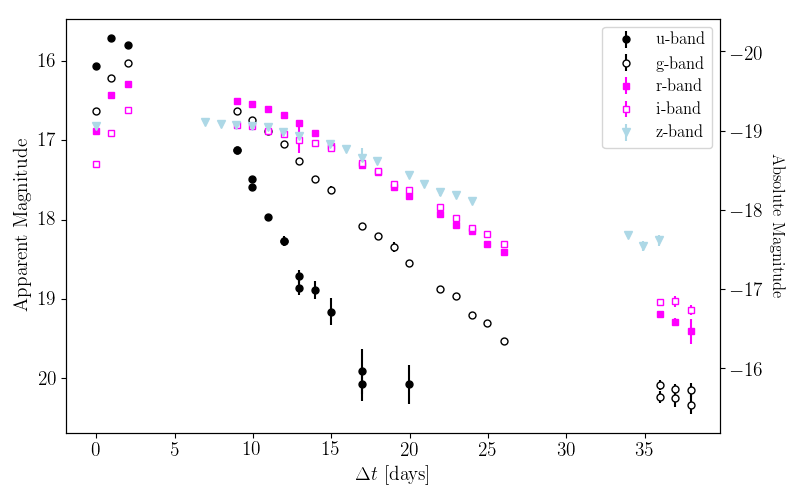
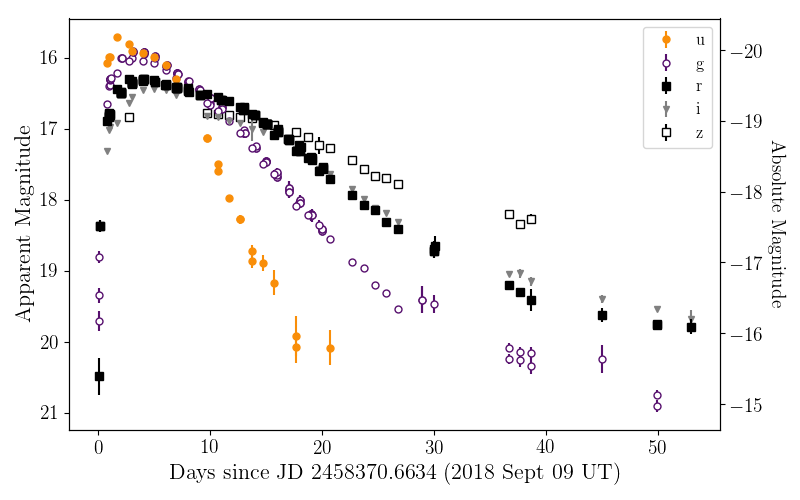
fit explosion epoch

diff --git a/paper_plots/fit_expl_epoch.py b/paper_plots/fit_expl_epoch.py
@@ -1,0 +1,67 @@
+""" 
+Fit for the explosion epoch by fitting a polynomial 
+to the g-band light curve """
+
+import numpy as np
+import matplotlib.pyplot as plt
+from matplotlib import rc
+rc("font", family="serif")
+rc("text", usetex=True)
+from astropy.cosmology import Planck15
+
+d = Planck15.luminosity_distance(z=0.033).cgs.value
+
+DATA_DIR = "/Users/annaho/Dropbox/Projects/Research/ZTF18abukavn/data/phot"
+f = DATA_DIR + "/ZTF18abukavn_opt_phot.dat"
+dat = np.loadtxt(f, dtype=str, delimiter=' ')
+instr = dat[:,0]
+mjd = dat[:,1].astype(float)
+filt = dat[:,2]
+mag = dat[:,3].astype(float)
+emag = dat[:,4].astype(float)
+
+det = np.logical_and(mag<99, ~np.isnan(mag))
+tofit = np.logical_and(instr=='P48+ZTF', filt=='g')
+choose = np.logical_and(det, tofit)
+dt = mjd[choose]-mjd[choose][0]
+
+# Initialize the figure
+fig,ax = plt.subplots(1,1,figsize=(5,3))
+
+# Convert from mag to flux
+# AB flux zero point for g-band is 3631 Jy or 1E-23 erg/cm2/s/Hz
+flux = 10**(-(mag[choose] + 48.6)/2.5)
+lum = 4 * np.pi * d**2 * flux
+# Uncertainty in magnitude is roughly the fractional uncertainty on the flux
+eflux = emag[choose]*flux
+elum = 4 * np.pi * d**2 * eflux
+
+# Plot the light curve
+ax.errorbar(dt, lum/1E28, yerr=elum/1E28, c='k', ms=5, fmt='.')
+
+# Fit a polynomial (quadratic)
+sec = dt < 3
+
+out,cov = np.polyfit(dt[sec], lum[sec], deg=2, w=1/elum[sec], cov=True)
+xlab = np.linspace(-1,2)
+ylab = out[0]*xlab**2 + out[1]*xlab + out[2]
+plt.plot(xlab, ylab/1E28, c='k', ls='--')
+
+ax.set_ylabel(r"$L_\nu$ [$10^{28}$ erg/s/Hz]", fontsize=16)
+ax.set_xlabel("Days since JD 2458370.6634", fontsize=16)
+ax.yaxis.set_tick_params(labelsize=14)
+ax.xaxis.set_tick_params(labelsize=14)
+ax.set_xlim(-3, 8)
+ax.set_ylim(-1,5)
+
+# Print fitting parameters
+a = out[0]
+ea = np.sqrt(cov[0][0])
+b = out[1]
+eb = np.sqrt(cov[1][1])
+c = out[2]
+ec = np.sqrt(cov[2][2])
+
+plt.tight_layout()
+plt.savefig("quadfit.png")
+#plt.show()

diff --git a/paper_plots/plot_lc.py b/paper_plots/plot_lc.py
@@ -23,8 +23,7 @@ mag = dat[:,3].astype(float)
 emag = dat[:,4].astype(float)
 
 det = np.logical_and(mag<99, ~np.isnan(mag))
-zp = mjd[det][0]
-print(zp)
+zp = 2458370.6473
 dt = mjd-zp
 
 rcol = 'k'
@@ -66,12 +65,11 @@ ax.errorbar(
 ax2 = ax.twinx()
 ax2.set_ylabel(
         "Absolute Magnitude",
-        fontsize=12, rotation=270, labelpad=15.0)
-y_f = lambda y_i: y_i-Planck15.distmod(z=0.033)
+        fontsize=14, rotation=270, labelpad=15.0)
+y_f = lambda y_i: y_i-Planck15.distmod(z=0.033).value
 ymin, ymax = ax.get_ylim()
 ax2.set_ylim((y_f(ymin), y_f(ymax)))
 ax2.plot([],[])
-ax2.set_yscale('log')
 ax2.tick_params(axis='both', labelsize=14)
 
 ax.set_ylabel("Apparent Magnitude", fontsize=16)
@@ -80,5 +78,9 @@ ax.yaxis.set_tick_params(labelsize=14)
 ax.xaxis.set_tick_params(labelsize=14)
 ax.legend(loc='upper right', fontsize=12)
 #ax.set_xscale('log')
-plt.gca().invert_yaxis()
-plt.show()
+ax.invert_yaxis()
+ax2.invert_yaxis()
+
+plt.tight_layout()
+plt.savefig("lc.png")
+#plt.show()
